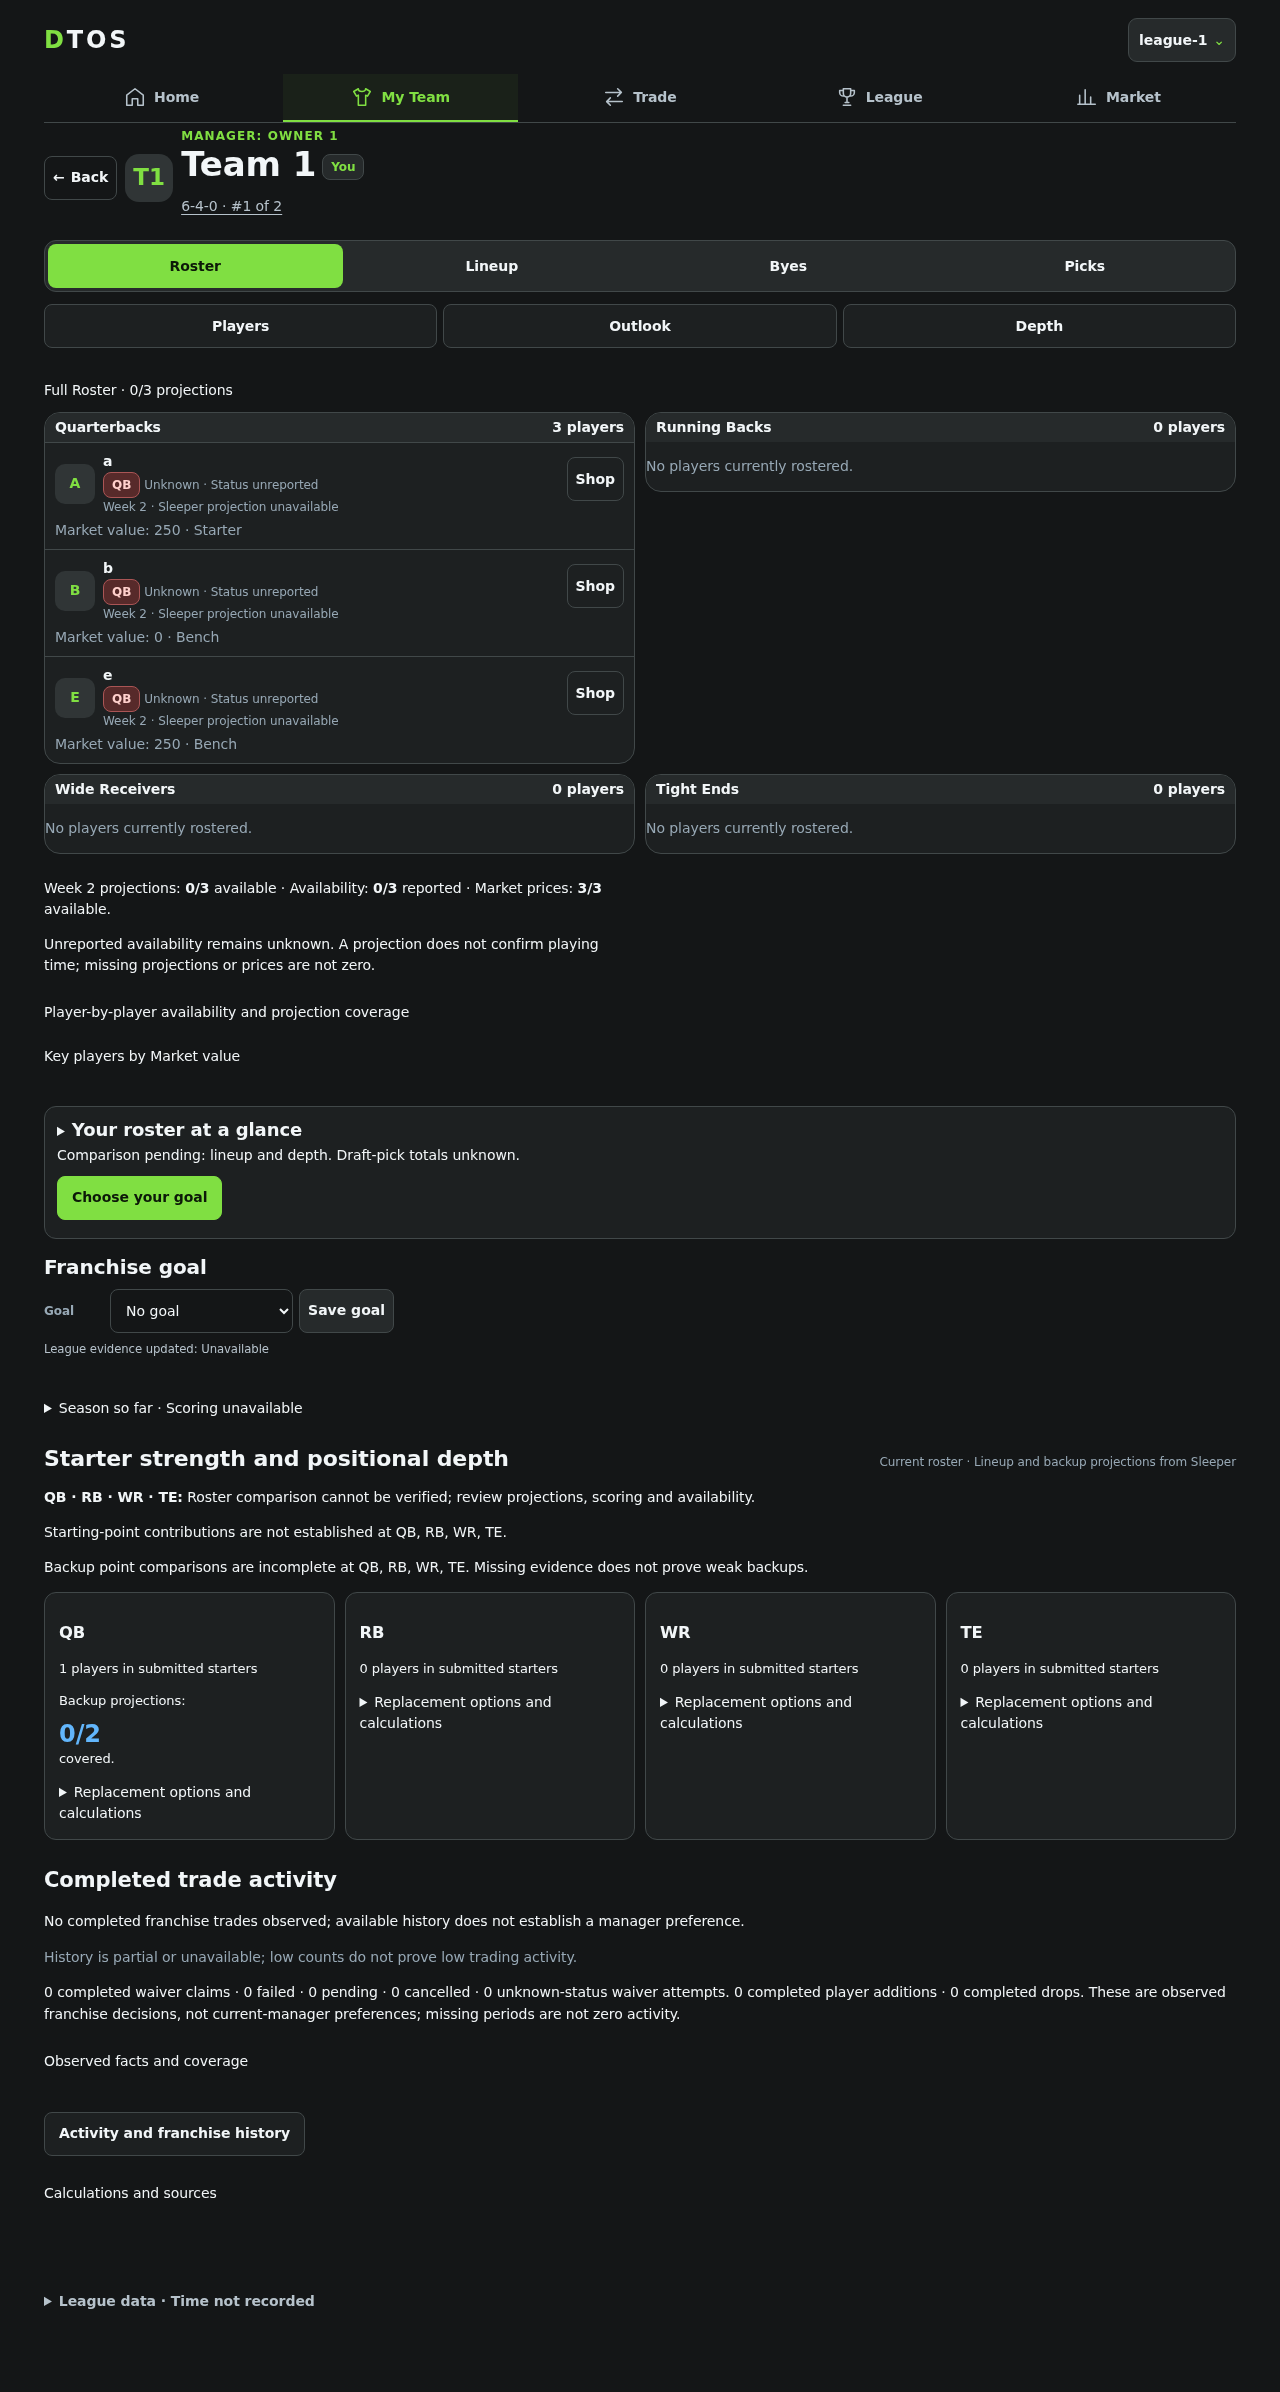
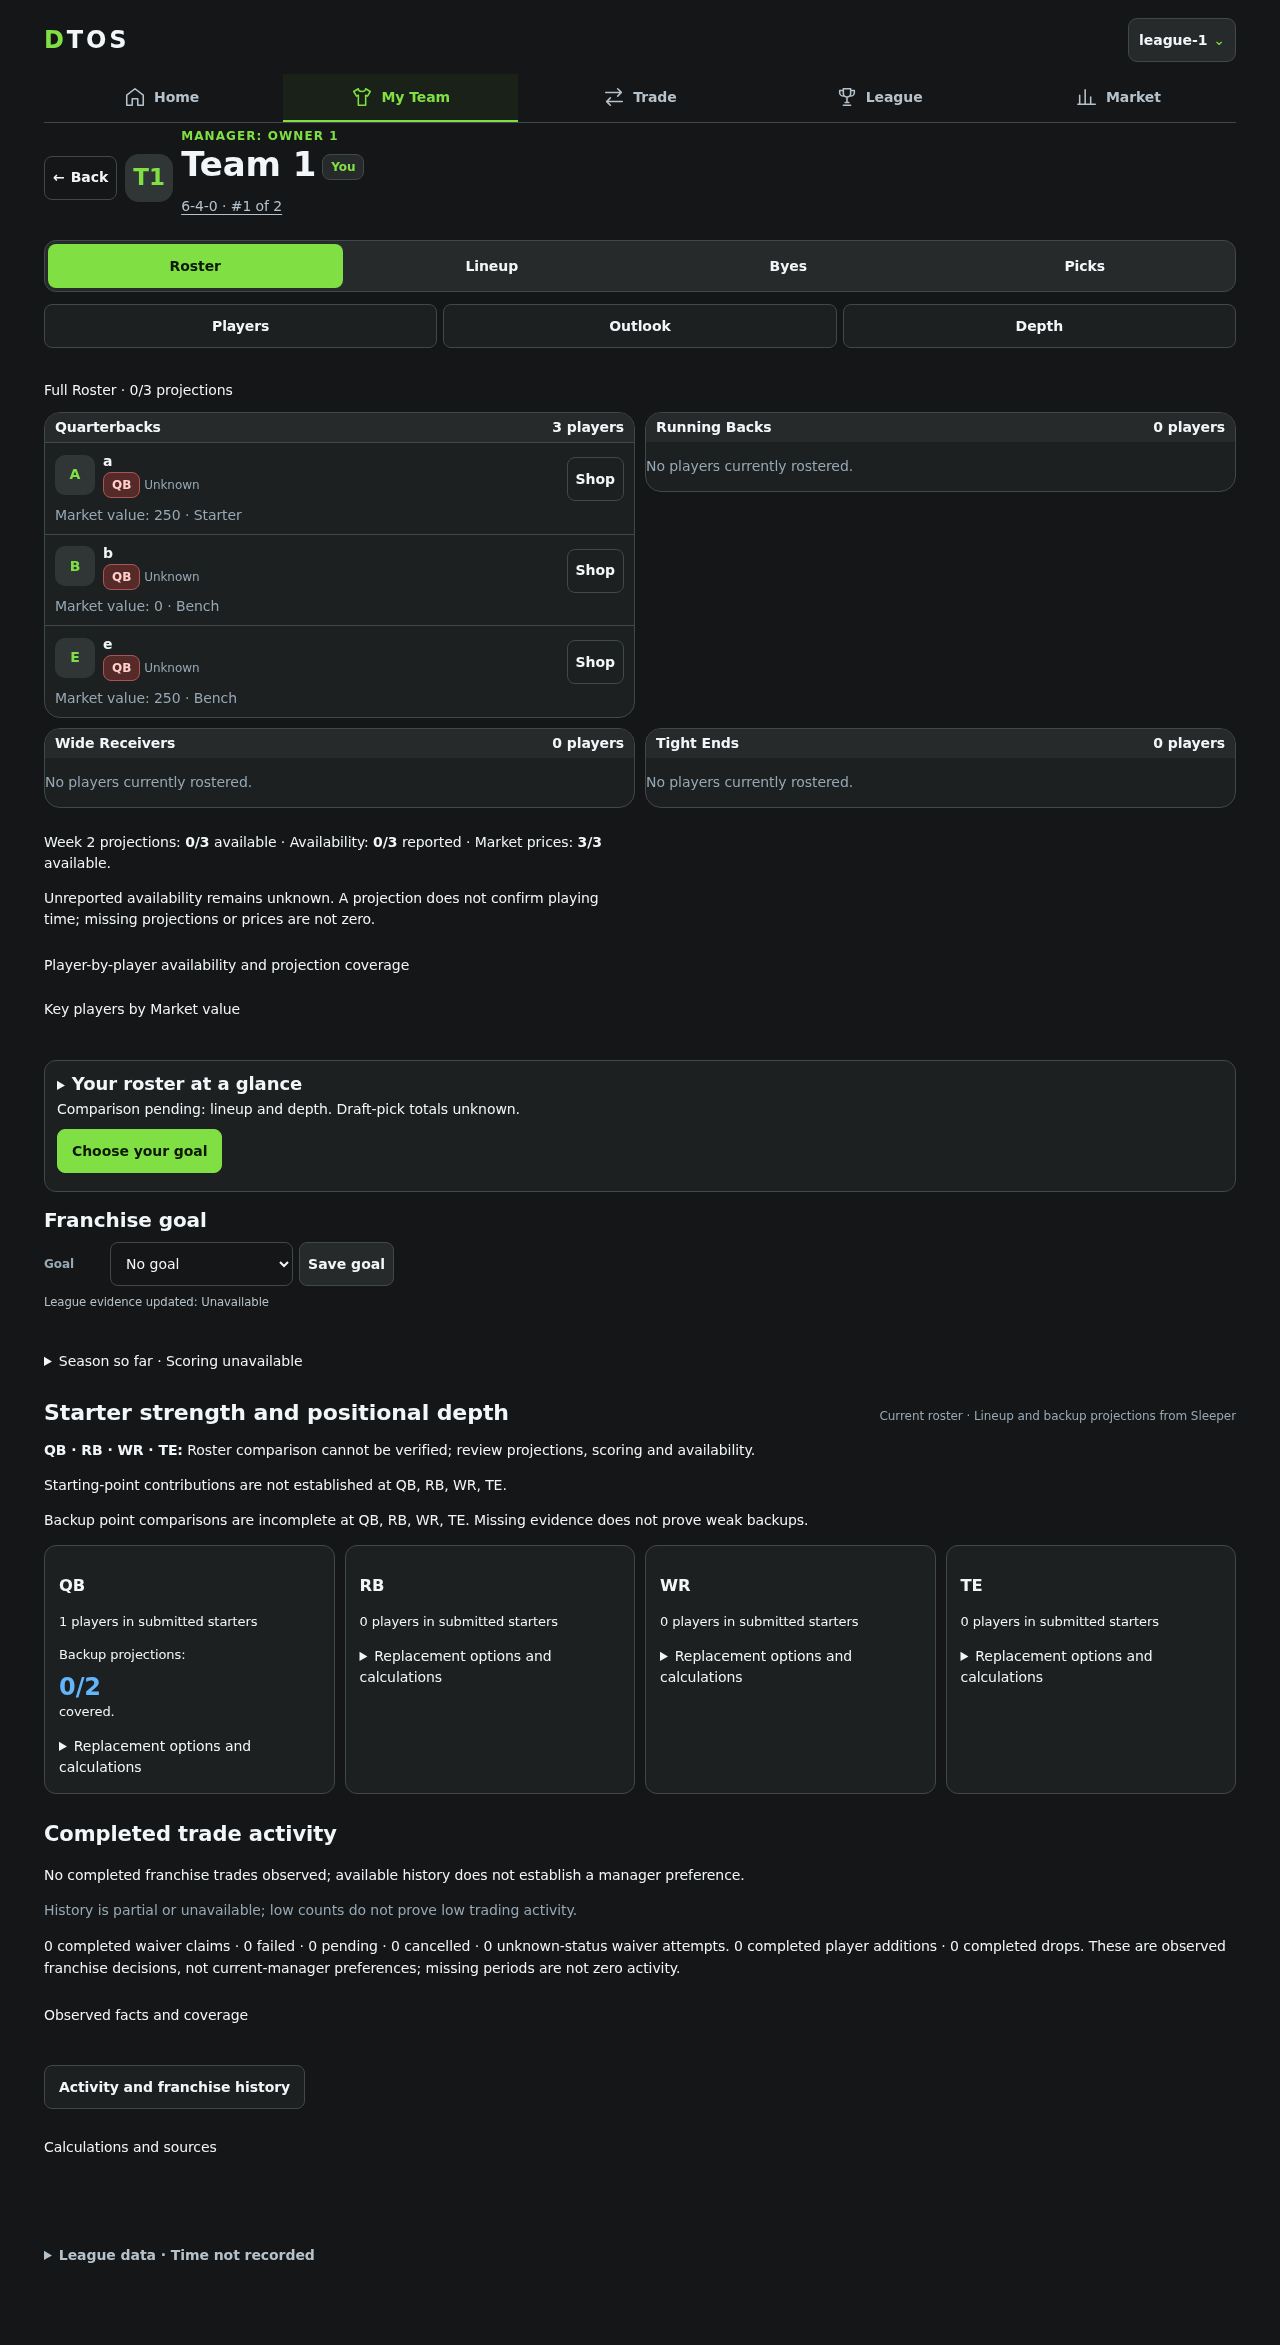
Publish corrected roster and Trade screenshot comparisons

diff --git a/.task-evidence/visual-consistency-2283/README.md b/.task-evidence/visual-consistency-2283/README.md
@@ -1,11 +1,9 @@
-# DTOS visual consistency · matched screenshots
+# DTOS visual consistency
 
-Thirty matching before/after captures at 320, 390 and 1280 pixels. Each pair uses the same disposable authenticated prepared fixture or public sign-in route. The viewport matrix includes Home, My Team, Trade, Market, Player Details, League, Matchups, Transactions, Draft Picks and sign-in. The two fixture captures have different exact tested source identities. `fixture-source-relationship.json` confirms the later candidate changed only browser tests to use the current controls.
+The 30 matched screenshots in before and after use the same prepared disposable fixture, at 320, 390 and 1280 pixels. Open the full images for Home, My Team, Trade, Market, Player Details, League, Matchups, Transactions, Draft Picks and sign-in. The top-level comparison images show the initial pass. The team-trade-correction comparisons and the after directory include the subsequent roster and Trade corrections.
 
-The new rendered journey verifies keyboard Back restores Market filters and the expanded row, and checks that the transaction Apply button is reachable with the fixed navigation. Public Welcome and prepared league score controls are validated separately. The matrix includes intentionally incomplete source evidence. It does not represent the production Day Traders roster or physical iPhone Safari.
+The six additional matched captures show grouped exact picks with ownership and original franchises, and the three expanded, read-only Welcome demonstrations. Their application paths match the final source, as recorded in fixture-source-relationship.json.
 
-The draft remains held while exact-source local and hosted release validation complete.
+The browser journey checks the last Apply button with fixed navigation, and restores the filters and expanded Market row after Player Details. The short-phone roster gate retains its original 600-pixel limit. These are Chromium fixture captures. Signed-in Day Traders and physical iPhone Safari remain unverified.
 
-The extra matrix shows three exact pick rows with owner and origin and the expanded Welcome demonstrations at the same three widths.
-
-The current exact-source focused logs include the desktop and short-phone roster gate, native traversal and contextual Back through the original completed trade and exact pick, and the Market search and filter round trip.
+The release remains held until complete local, hosted and guarded publisher evidence is available.

diff --git a/.task-evidence/visual-consistency-2283/SCOUT_HANDOFF.md b/.task-evidence/visual-consistency-2283/SCOUT_HANDOFF.md
@@ -1,6 +1,6 @@
 # Scout acceptance · Visual consistency
 
-Candidate 1fccc79d560bd9c8c898121d4fa81887a087d185, tree f0a27ffe7a05bd14b41510fc7f1731a7870e3bcf. Baseline b85342dcc719b7dbac58753662cea06cb2f4260c, v1.22.67 build 2282.
+Candidate 26856433d4e0b88ab542868f5ec779579dece8c8, tree c26aa5c5fdf012f336f177b4b6b814ff7def2552. Baseline b85342dcc719b7dbac58753662cea06cb2f4260c, v1.22.67 build 2282.
 
 In a safely prepared Day Traders / Chase Bank session, open Home at a phone width. Check that Do this first is the strongest action and This Week works without forcing a sync. Follow View all trades. Check the active historical filters, visible results, and expand Search and filters and Current-week activity counts. Open a completed deal and use the single contextual Back link. Verify the original filters and pagination.
 
@@ -10,4 +10,4 @@ Check My Team has one Picks tab, and inspect an exact owned pick for its origina
 
 Open the league picker and verify the active league appears first. Open all three public demos on desktop and check the sign-in form. Repeat 320px, 390px and desktop in Chromium with keyboard focus and scrolling, looking for any action obscured by fixed navigation. Do not sync, change settings, run a production search, or submit an offer for the review.
 
-The evidence captures use a disposable prepared league and responsive Chromium. They are not signed-in owner acceptance or physical iPhone Safari results.
+The evidence captures use a disposable prepared league. Phone widths and touch interactions were tested in Chromium. Signed-in Day Traders and physical iPhone Safari remain unverified.
